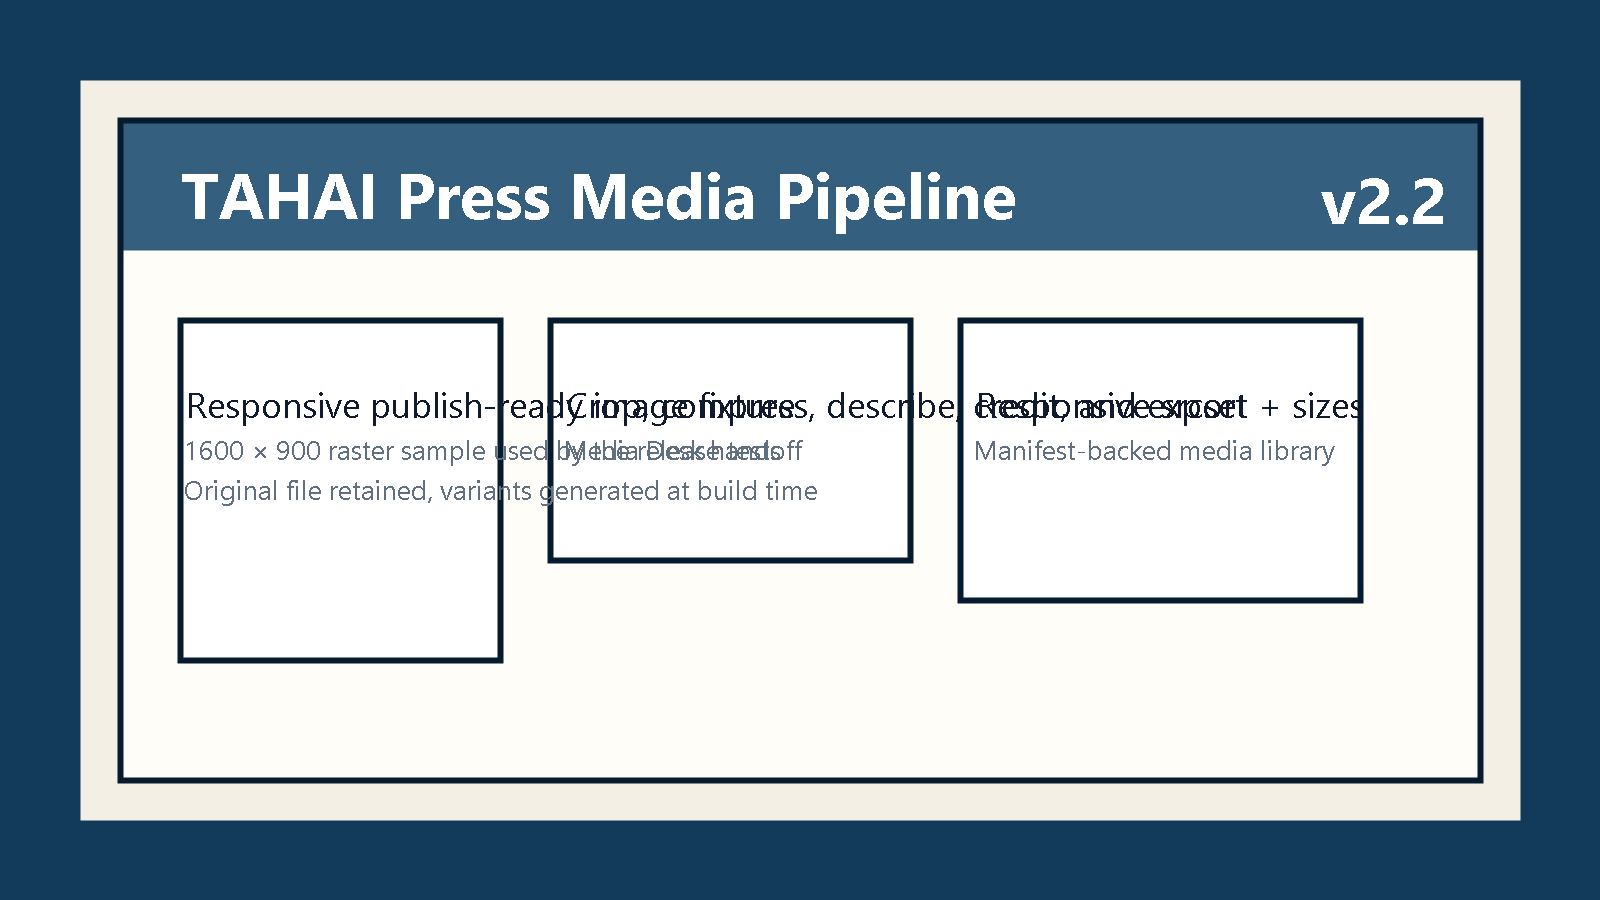
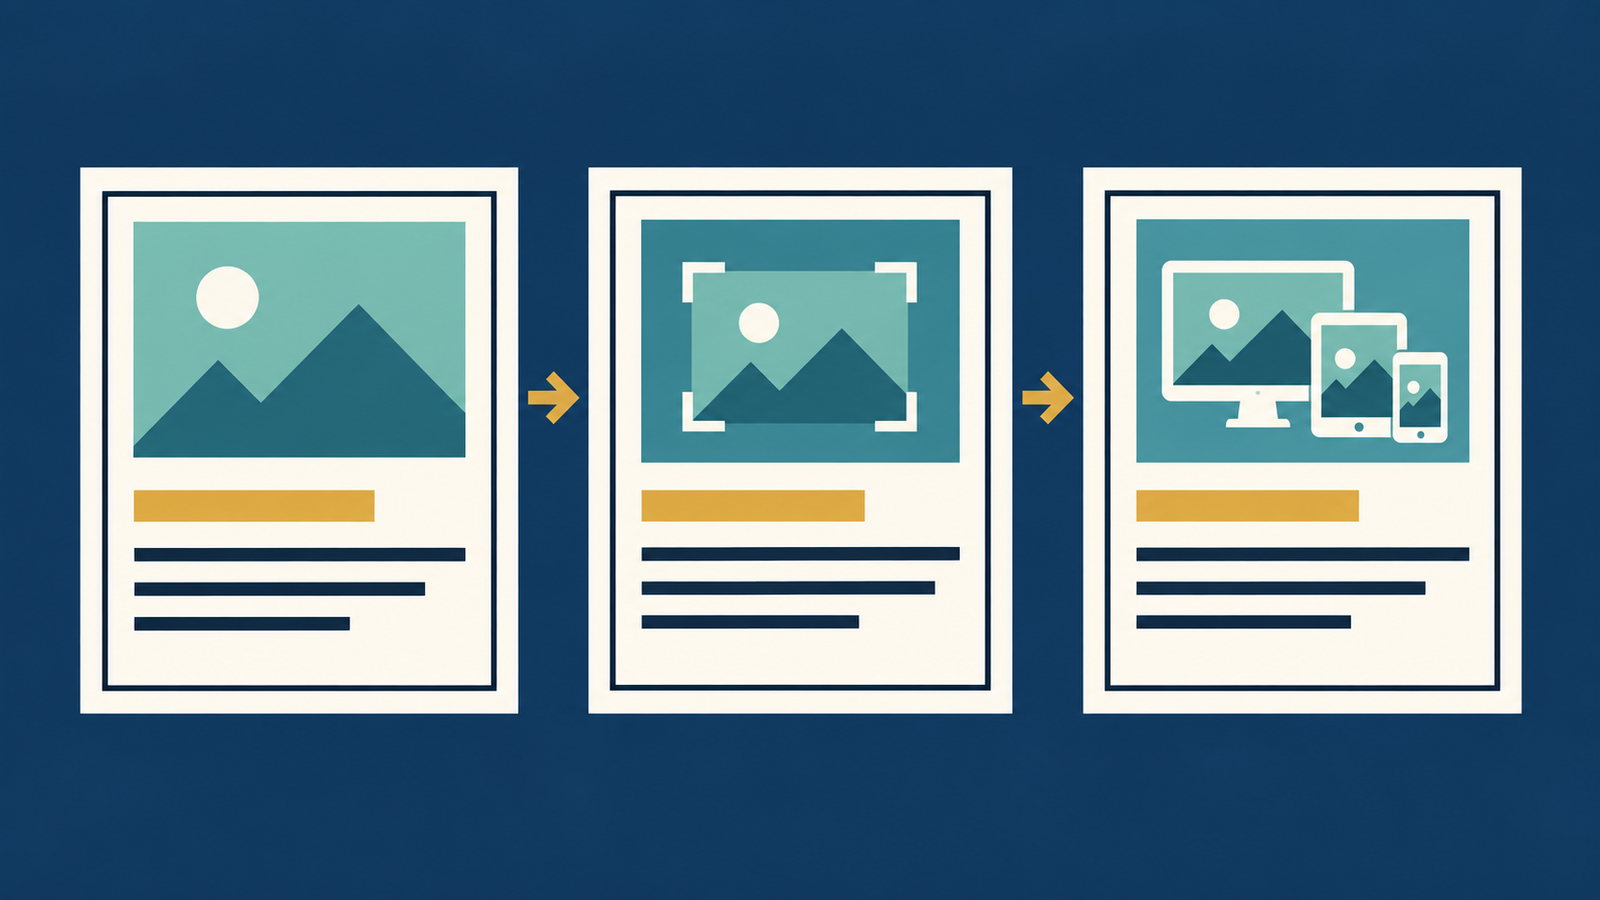
fix: contain featured media and repair footer layout

diff --git a/public/assets/styles.css b/public/assets/styles.css
@@ -596,8 +596,8 @@ p { margin: 0 0 1rem; }
 .article-byline p { margin: 0; font-family: var(--sans); font-size: 0.82rem; }
 .article-byline strong, .article-byline span { display: block; }
 .article-byline span { margin-top: 0.1rem; color: var(--muted); }
-.article-featured-image { max-width: 66rem; margin: 0 0 3.5rem; }
-.article-featured-image img { width: 100%; display: block; }
+.article-featured-image { max-width: 66rem; margin: 0 0 3.5rem; overflow: clip; isolation: isolate; }
+.article-featured-image img { width: 100%; max-width: 100%; display: block; object-fit: contain; }
 .prose { max-width: var(--reading); font-size: 1.12rem; }
 .prose-large { font-size: 1.18rem; }
 .prose h2 { margin-top: 2.8rem; font-size: clamp(1.8rem, 3vw, 2.65rem); }
@@ -683,7 +683,7 @@ p { margin: 0 0 1rem; }
 .not-found-mark .brand-symbol { width: 5rem; }
 
 .site-footer { color: #dce7ee; background: #091d2d; }
-.footer-grid { display: grid; grid-template-columns: minmax(0, 1.4fr) minmax(10rem, 0.5fr) minmax(10rem, 0.5fr); gap: clamp(2.5rem, 7vw, 7rem); padding-block: clamp(3.8rem, 7vw, 6rem); }
+.footer-grid { display: grid; grid-template-columns: minmax(16rem, 1fr) minmax(0, 1.65fr); gap: clamp(2rem, 5vw, 5rem); padding-block: clamp(3.8rem, 7vw, 6rem); }
 .brand-footer { color: var(--white); }
 .brand-footer .brand-symbol { color: var(--white); border-color: rgba(255,255,255,0.3); background: transparent; box-shadow: none; }
 .brand-footer .brand-copy small { color: #ead39f; }
@@ -701,7 +701,7 @@ p { margin: 0 0 1rem; }
   .featured-story { grid-template-columns: 1fr; }
   .featured-story-media-link { order: -1; }
   .story-media-featured { min-height: 24rem; height: 24rem; }
-  .footer-grid { grid-template-columns: 1.25fr 0.75fr 0.75fr; gap: 3rem; }
+  .footer-grid { grid-template-columns: minmax(14rem, 0.85fr) minmax(0, 1.5fr); gap: 2rem; }
 }
 
 @media (max-width: 760px) {
@@ -759,8 +759,8 @@ p { margin: 0 0 1rem; }
   .external-document .document-facts { grid-template-columns: 1fr; }
   .article-endnote { grid-template-columns: auto 1fr; }
   .article-endnote .text-link { grid-column: 1 / -1; }
-  .footer-grid { grid-template-columns: 1fr 1fr; }
-  .footer-brand { grid-column: 1 / -1; }
+  .footer-grid { grid-template-columns: 1fr; gap: 2.5rem; }
+  .footer-brand { grid-column: auto; }
 }
 
 @media (max-width: 500px) {
@@ -2845,7 +2845,7 @@ html[data-connection='offline'] .reader-reach-connection { color:var(--accent-da
 
 .footer-structured-links {
   display: grid;
-  grid-template-columns: repeat(3, minmax(0, 1fr));
+  grid-template-columns: repeat(3, minmax(9rem, 1fr));
   gap: 1.35rem;
 }
 
@@ -2862,6 +2862,13 @@ html[data-connection='offline'] .reader-reach-connection { color:var(--accent-da
   font-size: .72rem;
   letter-spacing: .14em;
   text-transform: uppercase;
+}
+
+.footer-column h2,
+.footer-column a {
+  overflow-wrap: normal;
+  word-break: normal;
+  hyphens: none;
 }
 
 .footer-column a {
